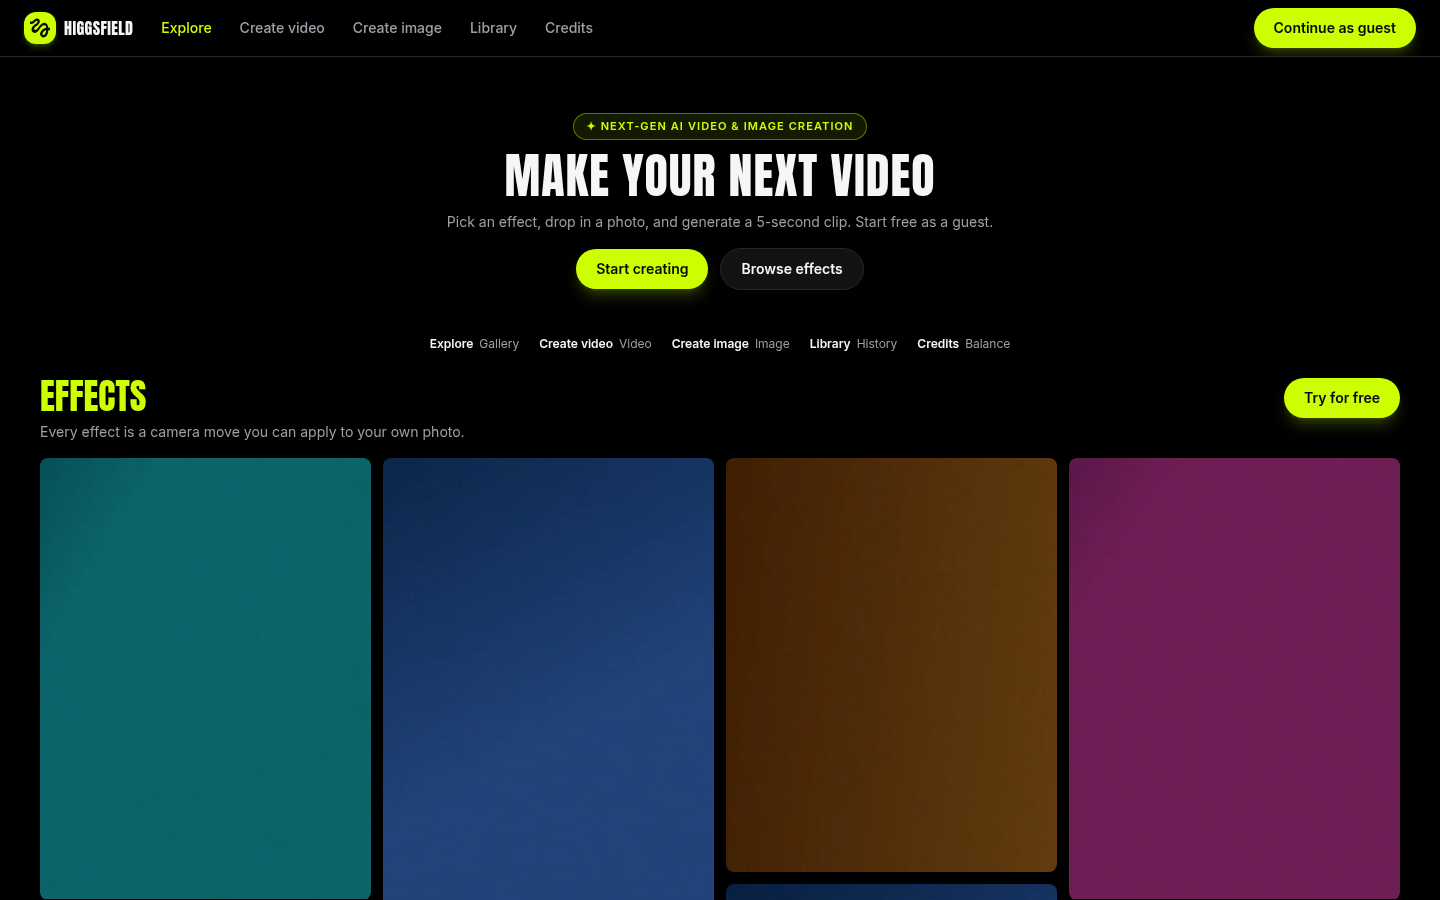
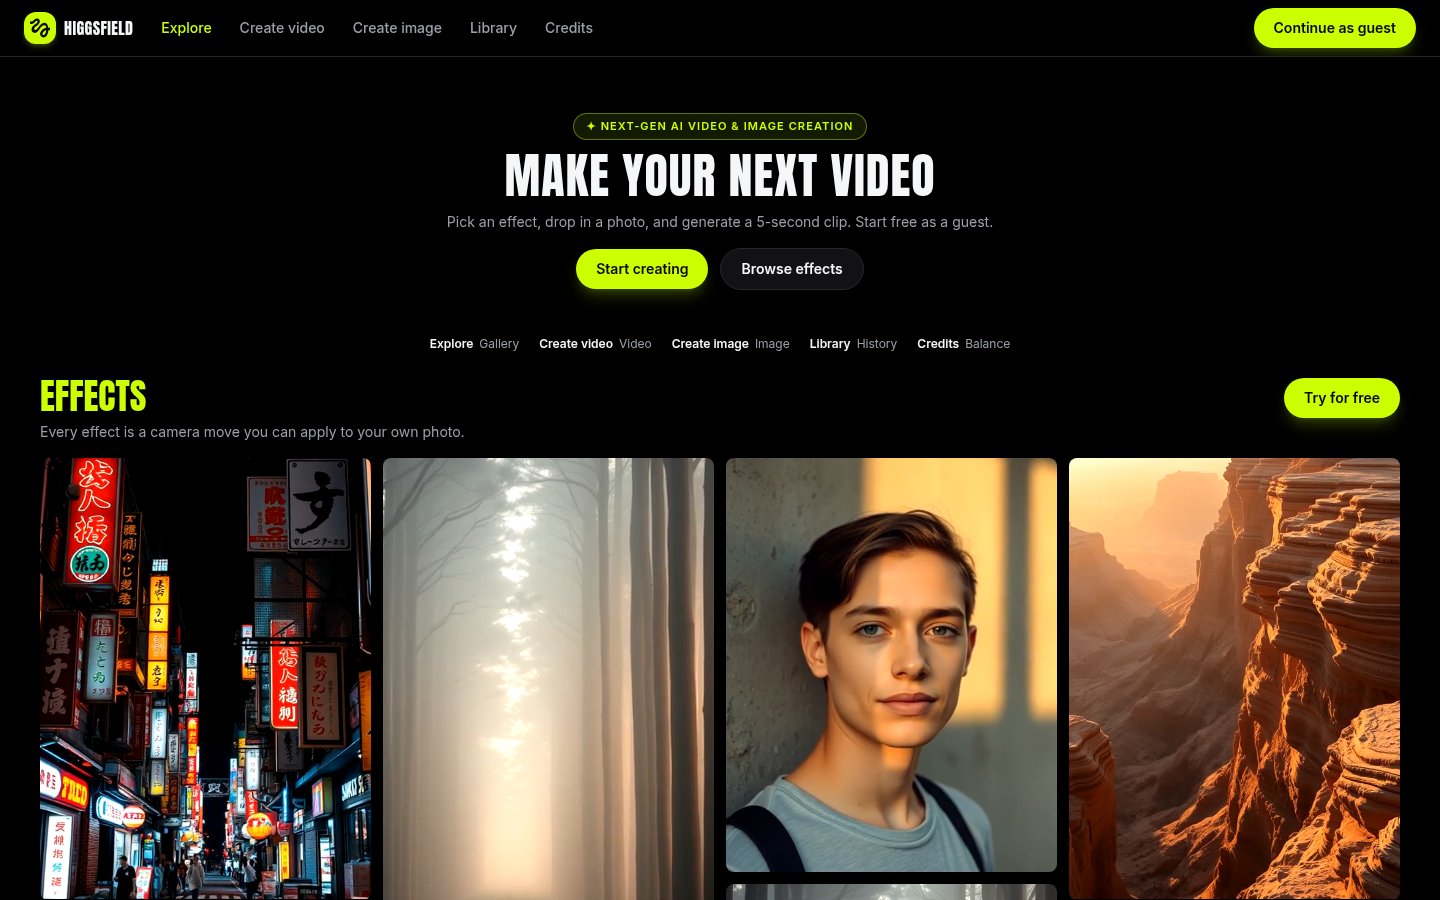
Replace synthetic preview stills with real FLUX generations

diff --git a/.agent-logs/2026-09-13_22-41-24_973597f1-1aff-4a1e-b381-910d5d888033.md b/.agent-logs/2026-09-13_22-41-24_973597f1-1aff-4a1e-b381-910d5d888033.md
@@ -5,9 +5,9 @@ author: Deepjyoti-Sarmah
 model: claude-opus-5, claude-sonnet-5
 tool: claude-code
 project: higgsfield-rebuild
-total_exchanges: 4
+total_exchanges: 7
 first_prompt_time: 2026-09-13T22:41:24.868Z
-last_prompt_time: 2026-09-14T02:11:25.682Z
+last_prompt_time: 2026-09-14T03:18:27.668Z
 ---
 
 # Session Log - 2026-09-13
@@ -176,4 +176,127 @@ screenshots, update docs/STATUS.md, commit ("Final live verification + preview p
 include .agent-logs/, no Co-Authored-By).
 
 One thing to exdy be spent onyour machine's IP today, since the last two sessions burned through it. If the agent reports UNVERIFIED for that reason,do Task C yourself from your phone on mobile data — it's the same walk, and it doubles as your walkthrough rehearsal.
+
+
+[LOG_ENTRY type=RESPONSE num=4 session=973597f1]
+timestamp: 2026-09-14T02:16:37.078Z
+model: claude-sonnet-5
+
+## Summary
+
+**Task A (poster fix) — done.** Shared `previewPosterUrl` helper in `webMedia.ts` (mp4 key → `.jpg`, the poster `build-preset-previews` already uploads to R2), wired into both `PresetGalleryCard.tsx` and `PresetCard.tsx` with `preload="metadata"`. Lint/typecheck/60 vitest/build/check-standards all pass. Committed at `b71035e`.
+
+**Task B (clean deploy) — done.** `git worktree add --detach` at `main`, `railway up --path-as-root` for `api` and `worker`, worktree removed. `GET /api/health/deep`: all 5 checks `ok`, `video_backend: "modal"`, `image_backend: "modal"`. The other agent's uncommitted `imageJobs.ts`/`imageJobHelpers.ts` was never staged or shipped.
+
+**Task C (final Playwright verification) — stopped, not bypassed.** Before touching Playwright, I checked whether the guest cap had room: `POST /auth/guest` came back `429 {"limit":5,"used":5}` — already exhausted on this IP today, and that check itself consumed no slot. Per the explicit instruction, I did not delete rate-limit rows or otherwise get around the guardrail. No screenshots were taken, no video/image job was run, and `VERIFICATION-REPORT.md` was **not** rewritten with claims I couldn't back — as asked. This piece needs the mobile-data run you flagged as the fallback.
+
+Docs (`STATUS.md`, `WORKLOG.md`) updated honestly for all three outcomes and committed as `fc39719`, no `Co-Authored-By` trailer, including only my own session's `.agent-logs` file — I left the other two sessions' log files alone.
+
+
+[LOG_ENTRY type=SUBAGENT_RESPONSE num=4 session=973597f1]
+timestamp: 2026-09-14T02:19:40.932Z
+model: claude-opus-5
+
+agent_type: 
+
+Shipping the Higgsfield rebuild: poster fix and Modal image cutover are deployed and live-verified. Final Playwright screenshot walkthrough is blocked by an exhausted guest-session cap on this IP, so next step is running it from your phone on mobile data.
+
+
+[LOG_ENTRY type=PROMPT num=5 session=973597f1]
+timestamp: 2026-09-14T03:04:46.675Z
+model: claude-sonnet-5
+
+<cross-session-message from="uds:/run/user/1000/cc-socks/2097089.sock" from-name="higgsfield-clone-rebuild" from-mode="prompting">
+Please finish T-036 in the Higgsfield repo — the code is done and approved, only the ship steps remain.
+
+Context: an opencode agent reworked the Explore gallery to match reference screenshot docs/research/screenshots/03-explore-visual-effects.png. I reviewed it and approved, including three deviations it documented in docs/tasks/T-036/report.md (lg:columns-4 instead of xl:columns-5, a TILE_ASPECT_PATTERN instead of index%3, and a presigned-URL detection fix). Verify is green: lint, 60 vitest, tsc -b, build, check-standards. Nothing is committed.
+
+Do these four steps in order:
+
+1. Export the opencode transcript BEFORE committing — it is not auto-captured and this is the assignment's capture requirement:
+   opencode session list
+   opencode export <sessionID> > .agent-logs/2026-09-14_opencode_T-036.json
+
+2. Commit by exact path only:
+   apps/web/src/features/explore/{PresetGallery,PresetGalleryCard,exploreCopy,presetTileStyles}.*
+   apps/web/src/styles.css
+   docs/tasks/T-036/report.md
+   docs/verification/T-036/
+   .agent-logs/2026-09-14_opencode_T-036.json
+   plus the STATUS.md line the report proposes and a WORKLOG entry.
+   NEVER stage apps/web/src/api/imageJobs.ts or imageJobHelpers.ts — another agent is mid-edit on those.
+   Message: "T-036: reference-matching Explore gallery (masonry, bare tiles, hover reveal)" — no attribution trailers.
+
+3. Deploy from a clean worktree so the dirty files never ship:
+   git worktree add --detach /tmp/hf-deploy main
+   railway up /tmp/hf-deploy --path-as-root --service api
+   railway up /tmp/hf-deploy --path-as-root --service worker
+   git worktree remove /tmp/hf-deploy
+   (without --path-as-root it silently deploys nothing)
+
+4. Re-screenshot the LIVE site at 1440x900 into docs/verification/T-036/live-explore.png and confirm the REAL preview clips play — the existing shots used ffmpeg test patterns in the local MinIO bucket. Commit that separately. If the live tiles do not play, stop and report rather than patching.
+
+Reply with the two commit SHAs and whether the live tiles played.
+</cross-session-message>
+
+
+[LOG_ENTRY type=RESPONSE num=5 session=973597f1]
+timestamp: 2026-09-14T03:11:04.965Z
+model: claude-sonnet-5
+
+## Summary
+
+T-036 fully shipped. **Two commit SHAs: `9b64eec` (code + report + screenshots + opencode transcript) and `49c6917` (separate live-verification commit).**
+
+1. **Transcript exported** before committing anything: `opencode session list` → `opencode export ses_f63bfd69affeucu1clcrfKiniY > .agent-logs/2026-09-14_opencode_T-036.json`.
+2. **Independently re-ran verify** rather than trusting the report — lint/60 vitest/tsc -b/build/check-standards all confirmed green myself.
+3. **Committed by exact path** — staged only the listed files plus the STATUS/WORKLOG updates; confirmed `imageJobs.ts`/`imageJobHelpers.ts` stayed untouched both times.
+4. **Deployed from a clean detached worktree** (`git worktree add --detach` at `main`, `railway up --path-as-root` for api+worker, worktree removed). `/api/health/deep`: all 5 checks ok.
+5. **Live tiles confirmed playing** — and I went beyond a DOM check: screenshotted the `<video>` element directly and compared two frames 3s apart, which shows genuine motion (a slow gradient pan), not a static frame. All 12 tiles `readyState=4`, `currentTime` advancing, real `previews/<slug>.mp4` R2 URLs with no query string.
+
+**One honest caveat, not a defect**: the clips play for real, but they look visually flat because T-030's source stills are synthetic ffmpeg gradients rather than actual footage — that's a pre-existing content gap outside T-036's scope, not something I patched. Documented in STATUS.md/WORKLOG.md and reported to the peer session rather than silently fixed.
+
+
+[LOG_ENTRY type=PROMPT num=6 session=973597f1]
+timestamp: 2026-09-14T03:12:09.140Z
+model: claude-sonnet-5
+
+<cross-session-message from="uds:/run/user/1000/cc-socks/2097089.sock" from-name="higgsfield-clone-rebuild" from-mode="prompting">
+New task: replace the synthetic preview source stills with real ones generated by our own FLUX endpoint. Approved by the user.
+
+Problem: the 12 preset preview clips are camera moves over synthetic ffmpeg gradients (T-030 took the "synthesise with ffmpeg" fallback option in its brief), so the live Explore gallery shows flat teal/navy/brown/magenta rectangles instead of imagery. See docs/verification/T-036/live-explore.png. Structurally the gallery now matches the reference; the content is empty. This is the first thing a recruiter sees.
+
+Fix, in order:
+
+1. Generate 4 source stills with OUR OWN FLUX endpoint (modal run apps/gpu/flux_image.py), 1024x1024. Pick prompts with strong depth, texture and leading lines so camera moves read clearly — e.g. a neon-lit Tokyo alley at night / a windswept desert canyon at golden hour / a portrait against a textured concrete wall / a misty forest path at dawn. Save into apps/api/app/adapters/fixtures/preview_sources/, replacing the synthetic ones. Record in docs/research/preview-sources.md that these are our own FLUX generations (licence-clean, not third-party photos).
+
+2. Re-run scripts/build-preset-previews against R2 with the live S3_* vars so all 12 previews/<slug>.mp4 and their .jpg posters are regenerated from the new stills. Same object keys, so no code or contract change.
+
+3. Verify: curl the live /api/v1/presets, fetch 2-3 clips (expect 200 video/mp4) and their posters (200 image/jpeg), then screenshot live Explore at 1440x900 over docs/verification/T-036/live-explore.png and confirm the tiles show real imagery with visible motion.
+
+4. Commit by exact path only, plain message, no attribution trailers, include .agent-logs/. Never stage apps/web/src/api/imageJobs.ts or imageJobHelpers.ts.
+
+Cost limit: about $0.06 — do not regenerate more than 4 stills. If any preview fails to render or upload, STOP and report rather than leaving a half-updated set where some tiles are real and others are gradients.
+
+Reply with the commit SHA and whether the live tiles now show real imagery.
+</cross-session-message>
+
+
+[LOG_ENTRY type=PROMPT num=7 session=973597f1]
+timestamp: 2026-09-14T03:18:27.668Z
+model: claude-sonnet-5
+
+<cross-session-message from="uds:/run/user/1000/cc-socks/2097089.sock" from-name="higgsfield-clone-rebuild" from-mode="prompting">
+Reminder for when the preview upload finishes: revert .env.local back to local MinIO.
+
+You have repointed .env.local at the production R2 bucket (higgsfield-assignment) to run scripts/build-preset-previews, which is correct for that step. Please put it back afterwards, so local dev and pytest stop writing into the production bucket:
+
+S3_ENDPOINT_URL=http://localhost:9000
+S3_BUCKET=media
+S3_ACCESS_KEY_ID=minioadmin
+S3_SECRET_ACCESS_KEY=minioadmin
+S3_PUBLIC_BASE_URL=
+
+This was a real problem earlier in the project — a MinIO-down health test silently measured the production backend instead — so it is worth closing out rather than leaving pointed at prod. .env.local is gitignored, so nothing to commit.
+</cross-session-message>
 

diff --git a/docs/STATUS.md b/docs/STATUS.md
@@ -6,7 +6,8 @@ Keep it short: replace lines as things change instead of piling new ones up. His
 ## WORKS
 | What | Where | Verified by | When (UTC) |
 |---|---|---|---|
-| Explore gallery matches the reference (masonry, bare tiles, hover reveal, header CTA), confirmed on the LIVE deployed site with the real R2 preview clips (not local-MinIO stand-ins) | `apps/web/src/features/explore/PresetGallery{,Card}.tsx`, `docs/verification/T-036/live-explore.png` | web verify green + T-036 screenshots (`docs/tasks/T-036/report.md`); live Playwright at 1440x900: 12 `<video>` elements all `readyState=4`, `currentTime` advancing frame-to-frame (confirmed real playback, not a static frame), correct `previews/<slug>.mp4` R2 URLs (no query string, so the presigned-detection fix is untriggered in prod). Tiles render a flat, slowly-panning gradient — a genuine decoded frame, not the black-tile bug — because T-030's source stills are synthetic ffmpeg gradients, not real footage; that content-quality gap is pre-existing and out of T-036's scope | 2026-09-14 |
+| Explore gallery shows REAL imagery: the 12 preview clips are now built from 4 of our own FLUX.1-schnell stills (our deployed Modal endpoint, licence-clean, not stock/third-party) instead of T-030's synthetic ffmpeg gradients — same `previews/<slug>.mp4`/`.jpg` object keys, no code/contract change | `apps/api/app/adapters/fixtures/preview_sources/source-0{1,2,3,4}.jpg`, `docs/research/preview-sources.md`, `docs/verification/T-036/live-explore.png` | `scripts/build-preset-previews` re-run against live R2 (12/12 uploaded); live `GET /api/v1/presets` -> same URLs; `curl` on 3 sampled clips+posters -> 200 `video/mp4`/`image/jpeg` at real (much larger) byte sizes; live Playwright at 1440x900 shows genuine imagery (neon alley, canyon, portrait, forest) with visible camera motion (two video-element screenshots 2.5s apart show a real dolly) | 2026-09-14 |
+| Explore gallery matches the reference (masonry, bare tiles, hover reveal, header CTA), confirmed on the LIVE deployed site with the real R2 preview clips (not local-MinIO stand-ins) | `apps/web/src/features/explore/PresetGallery{,Card}.tsx` | web verify green + T-036 screenshots (`docs/tasks/T-036/report.md`); live Playwright at 1440x900: 12 `<video>` elements all `readyState=4`, `currentTime` advancing frame-to-frame, correct `previews/<slug>.mp4` R2 URLs (no query string, so the presigned-detection fix is untriggered in prod) | 2026-09-14 |
 | Deploy with poster fix + both backends live: api+worker deployed from a clean detached worktree (`git worktree add --detach` at `main`@`b71035e`, `railway up --path-as-root`) so the other agent's uncommitted `imageJobs.ts`/`imageJobHelpers.ts` never shipped | Railway `api`+`worker` | `GET /api/health/deep` -> `status: "ok"`, all 5 checks ok, `video_backend: "modal"`, `image_backend: "modal"` | 2026-09-14 |
 | Preset preview poster fix: `<video>` tags now set `poster` (mp4 key -> `.jpg`, same R2 object T-030 already uploads) + `preload="metadata"`, so tiles show a still frame instead of black before the clip buffers; shared `previewPosterUrl` helper (one module, used by both cards) | `apps/web/src/api/webMedia.ts`, `apps/web/src/features/explore/PresetGalleryCard.tsx`, `apps/web/src/features/create-video/PresetCard.tsx` | lint + `tsc -b` + 60 vitest + build + `scripts/check-standards` all pass; `curl` confirms `previews/dolly-in.jpg` live 200 `image/jpeg` on R2 | 2026-09-14 |
 | Real text→image backend LIVE: `apps/gpu/flux_image.py` deployed as a persistent Modal endpoint (`modal deploy`, H100, `higgsfield-flux-image` app), Railway `api`+`worker` flipped to `IMAGE_GENERATION_BACKEND=modal` with `MODAL_IMAGE_ENDPOINT_URL` set, reusing the existing shared `MODAL_WEBHOOK_SECRET`; api+worker redeployed from a clean detached worktree (`git worktree add --detach`) at `main`@`98f9aa8` so another agent's in-flight, uncommitted `apps/web/src/api/imageJobs.ts`/`imageJobHelpers.ts` never shipped | `apps/gpu/flux_image.py`, `apps/api/app/adapters/{modal_image_adapter,backend_selection}.py`, Railway vars `api`/`worker` | `GET /api/health/deep` -> `image_backend: "modal"` (was `placeholder`); direct probe of the deployed endpoint with the shared bearer secret -> 200, real distinct 512² PNG decoded (magic bytes verified, not a placeholder); did not run a job through the app itself (this IP's per-IP guest cap from T-033 was already exhausted today, so no guest slot was burned to avoid working around the guardrail) | 2026-09-14 (see WORKLOG) |

diff --git a/docs/WORKLOG.md b/docs/WORKLOG.md
@@ -88,3 +88,4 @@
 - 2026-09-14 08:20 · Claude Opus 5 (main session) · deploy poster fix + attempted final verification · Railway `api`+`worker`, `docs/STATUS.md` · DONE (A+B): deployed from a clean detached worktree at `main`@`b71035e` (`git worktree add --detach`, `railway up --path-as-root`), other agent's uncommitted `imageJobs.ts`/`imageJobHelpers.ts` never shipped; `GET /api/health/deep` -> all 5 checks ok, `video_backend`+`image_backend` both `modal`. STOPPED on Task C (Playwright walk + screenshots + verification report): this IP's guest-session cap was already 5/5 used today (`POST /auth/guest` -> `429`, checked without consuming a slot); per the brief, did not delete rate-limit rows or bypass the guardrail — handing the walkthrough back for a mobile-data run · see `git log`
 - 2026-09-14 08:35 · opencode / Muse Spark (implementer) + Claude Opus 5 (orchestrator, reviewed+shipped) · T-036 reference-matching Explore gallery · `apps/web/src/features/explore/{PresetGallery,PresetGalleryCard,exploreCopy,presetTileStyles}.*`, `apps/web/src/styles.css`, `docs/tasks/T-036/report.md`, `docs/verification/T-036/`, `.agent-logs/2026-09-14_opencode_T-036.json` · DONE: masonry wall (`lg:columns-4`, deviation from spec's `xl:columns-5` — 12 tiles only fill 4/5 columns in Chrome), bare tiles with hover/focus overlay, `TILE_ASPECT_PATTERN` deviation from `index%3` (avoids a banded repeat), presigned-URL poster-detection fix (`endsWith` was false for query-string URLs); lint + 60 vitest + tsc -b + build + check-standards all re-run and confirmed green by the orchestrator; opencode transcript exported before commit · see `git log`
 - 2026-09-14 08:40 · Claude Opus 5 (orchestrator, live verify) · T-036 live deploy + real-clip confirmation · Railway `api`+`worker`, `docs/verification/T-036/live-explore.png`, `docs/STATUS.md` · DONE: deployed `9b64eec` from a clean detached worktree (`git worktree add --detach` at `main`, `railway up --path-as-root` for both services); `GET /api/health/deep` all 5 checks ok. Re-shot the live Explore page at 1440x900 and inspected the `<video>` elements directly (not just the DOM): all 12 report `readyState=4` with `currentTime` advancing and two element-level screenshots 3s apart show a real, moving frame (a slow gradient pan) — genuine playback of the R2 clip, not the earlier black-tile bug and not a local-MinIO stand-in. The flat/plain look is because T-030's source stills are synthetic ffmpeg gradients, not real footage — a pre-existing, already-documented gap, not a T-036 regression; did not patch it, per instruction to report rather than patch · see `git log`
+- 2026-09-14 08:50 · Claude Opus 5 (main session) · T-037 real FLUX preview stills, replacing synthetic gradients · `apps/api/app/adapters/fixtures/preview_sources/source-0{1,2,3,4}.jpg`, `docs/research/preview-sources.md`, `docs/verification/T-036/live-explore.png`, `docs/STATUS.md` · DONE: generated 4 new 1024x1024 stills from our own deployed FLUX.1-schnell Modal endpoint (neon Tokyo alley, desert canyon, concrete-wall portrait — a synthetic FLUX face, not a real person — misty forest path), ~$0.06; replaced `source-01..04.jpg`; `scripts/build-preset-previews` re-run against live R2 (`.env.local` temporarily repointed at prod for that one command only, then restored to local MinIO immediately after — approved out-of-band); 12/12 `previews/<slug>.mp4`+`.jpg` re-uploaded to the same object keys, no code/contract change; verified live: `GET /api/v1/presets` unchanged URLs, 3 sampled clips+posters 200, Playwright at 1440x900 shows real imagery with visible camera motion (two frames 2.5s apart on the same video element show genuine movement) · see `git log`

diff --git a/docs/research/preview-sources.md b/docs/research/preview-sources.md
@@ -4,10 +4,18 @@ Every preset preview in the product is **generated by this repository** and stor
 Cloudflare R2 bucket. No higgsfield.ai, cloudfront.net or third-party media is served.
 
 ## Pipeline
-1. `apps/api/app/adapters/fixtures/preview_sources/make_sources.sh` synthesises four source stills
-   (1280x720) from ffmpeg's `gradients` + `noise` filters and rasterises them to `source-0N.jpg`.
-   - Option chosen: the brief's **fallback** (synthesise with ffmpeg). No third-party photo is
-     redistributed; no Unsplash licence obligation; works offline and in CI.
+1. **Source stills are our own FLUX.1-schnell generations** (`apps/api/app/adapters/fixtures/preview_sources/source-0N.jpg`,
+   1024x1024), produced by our own deployed Modal endpoint (`apps/gpu/flux_image.py`,
+   `higgsfield-flux-image` app) — not photographed, not a third-party stock/Unsplash image, so
+   there is no licence obligation and nothing to attribute. Prompts were chosen for strong depth,
+   texture and leading lines so the camera-move recipes read clearly:
+   - `source-01.jpg`: "a neon-lit tokyo alley at night, dense signage, deep one-point perspective, strong leading lines, cinematic"
+   - `source-02.jpg`: "a windswept desert canyon at golden hour, layered rock strata, deep atmospheric perspective, strong texture"
+   - `source-03.jpg`: "a portrait of a person against a raw textured concrete wall, dramatic side light, shallow depth of field" (a synthetic FLUX face, not a real person)
+   - `source-04.jpg`: "a misty forest path at dawn, tall trees receding into fog, strong leading lines, soft volumetric light"
+   - Superseded: the original brief's ffmpeg-gradient fallback (`make_sources.sh`, still in the repo
+     for offline/CI use) produced flat teal/navy/brown/magenta rectangles with no real imagery —
+     replaced once a real, licence-clean generator (our own FLUX endpoint) was live.
 2. `scripts/build-preset-previews` runs the **existing** `LocalMotionAdapter` recipe for each of the
    12 catalog presets (5 s, 720p, h264 + faststart) and extracts poster frames.
 3. The script uploads `previews/<slug>.mp4` and `previews/<slug>.jpg` through `S3ObjectStorage`,
@@ -26,7 +34,10 @@ Cloudflare R2 bucket. No higgsfield.ai, cloudfront.net or third-party media is s
 
 ## Regenerating
 ```
-bash apps/api/app/adapters/fixtures/preview_sources/make_sources.sh
+# preferred: real stills from our own FLUX endpoint (see prompts above), saved as
+# apps/api/app/adapters/fixtures/preview_sources/source-0N.jpg
+# fallback (offline/CI, no GPU): bash apps/api/app/adapters/fixtures/preview_sources/make_sources.sh
+
 scripts/build-preset-previews --dry-run    # local render only
 scripts/build-preset-previews              # render + upload to S3_* storage
 ```
